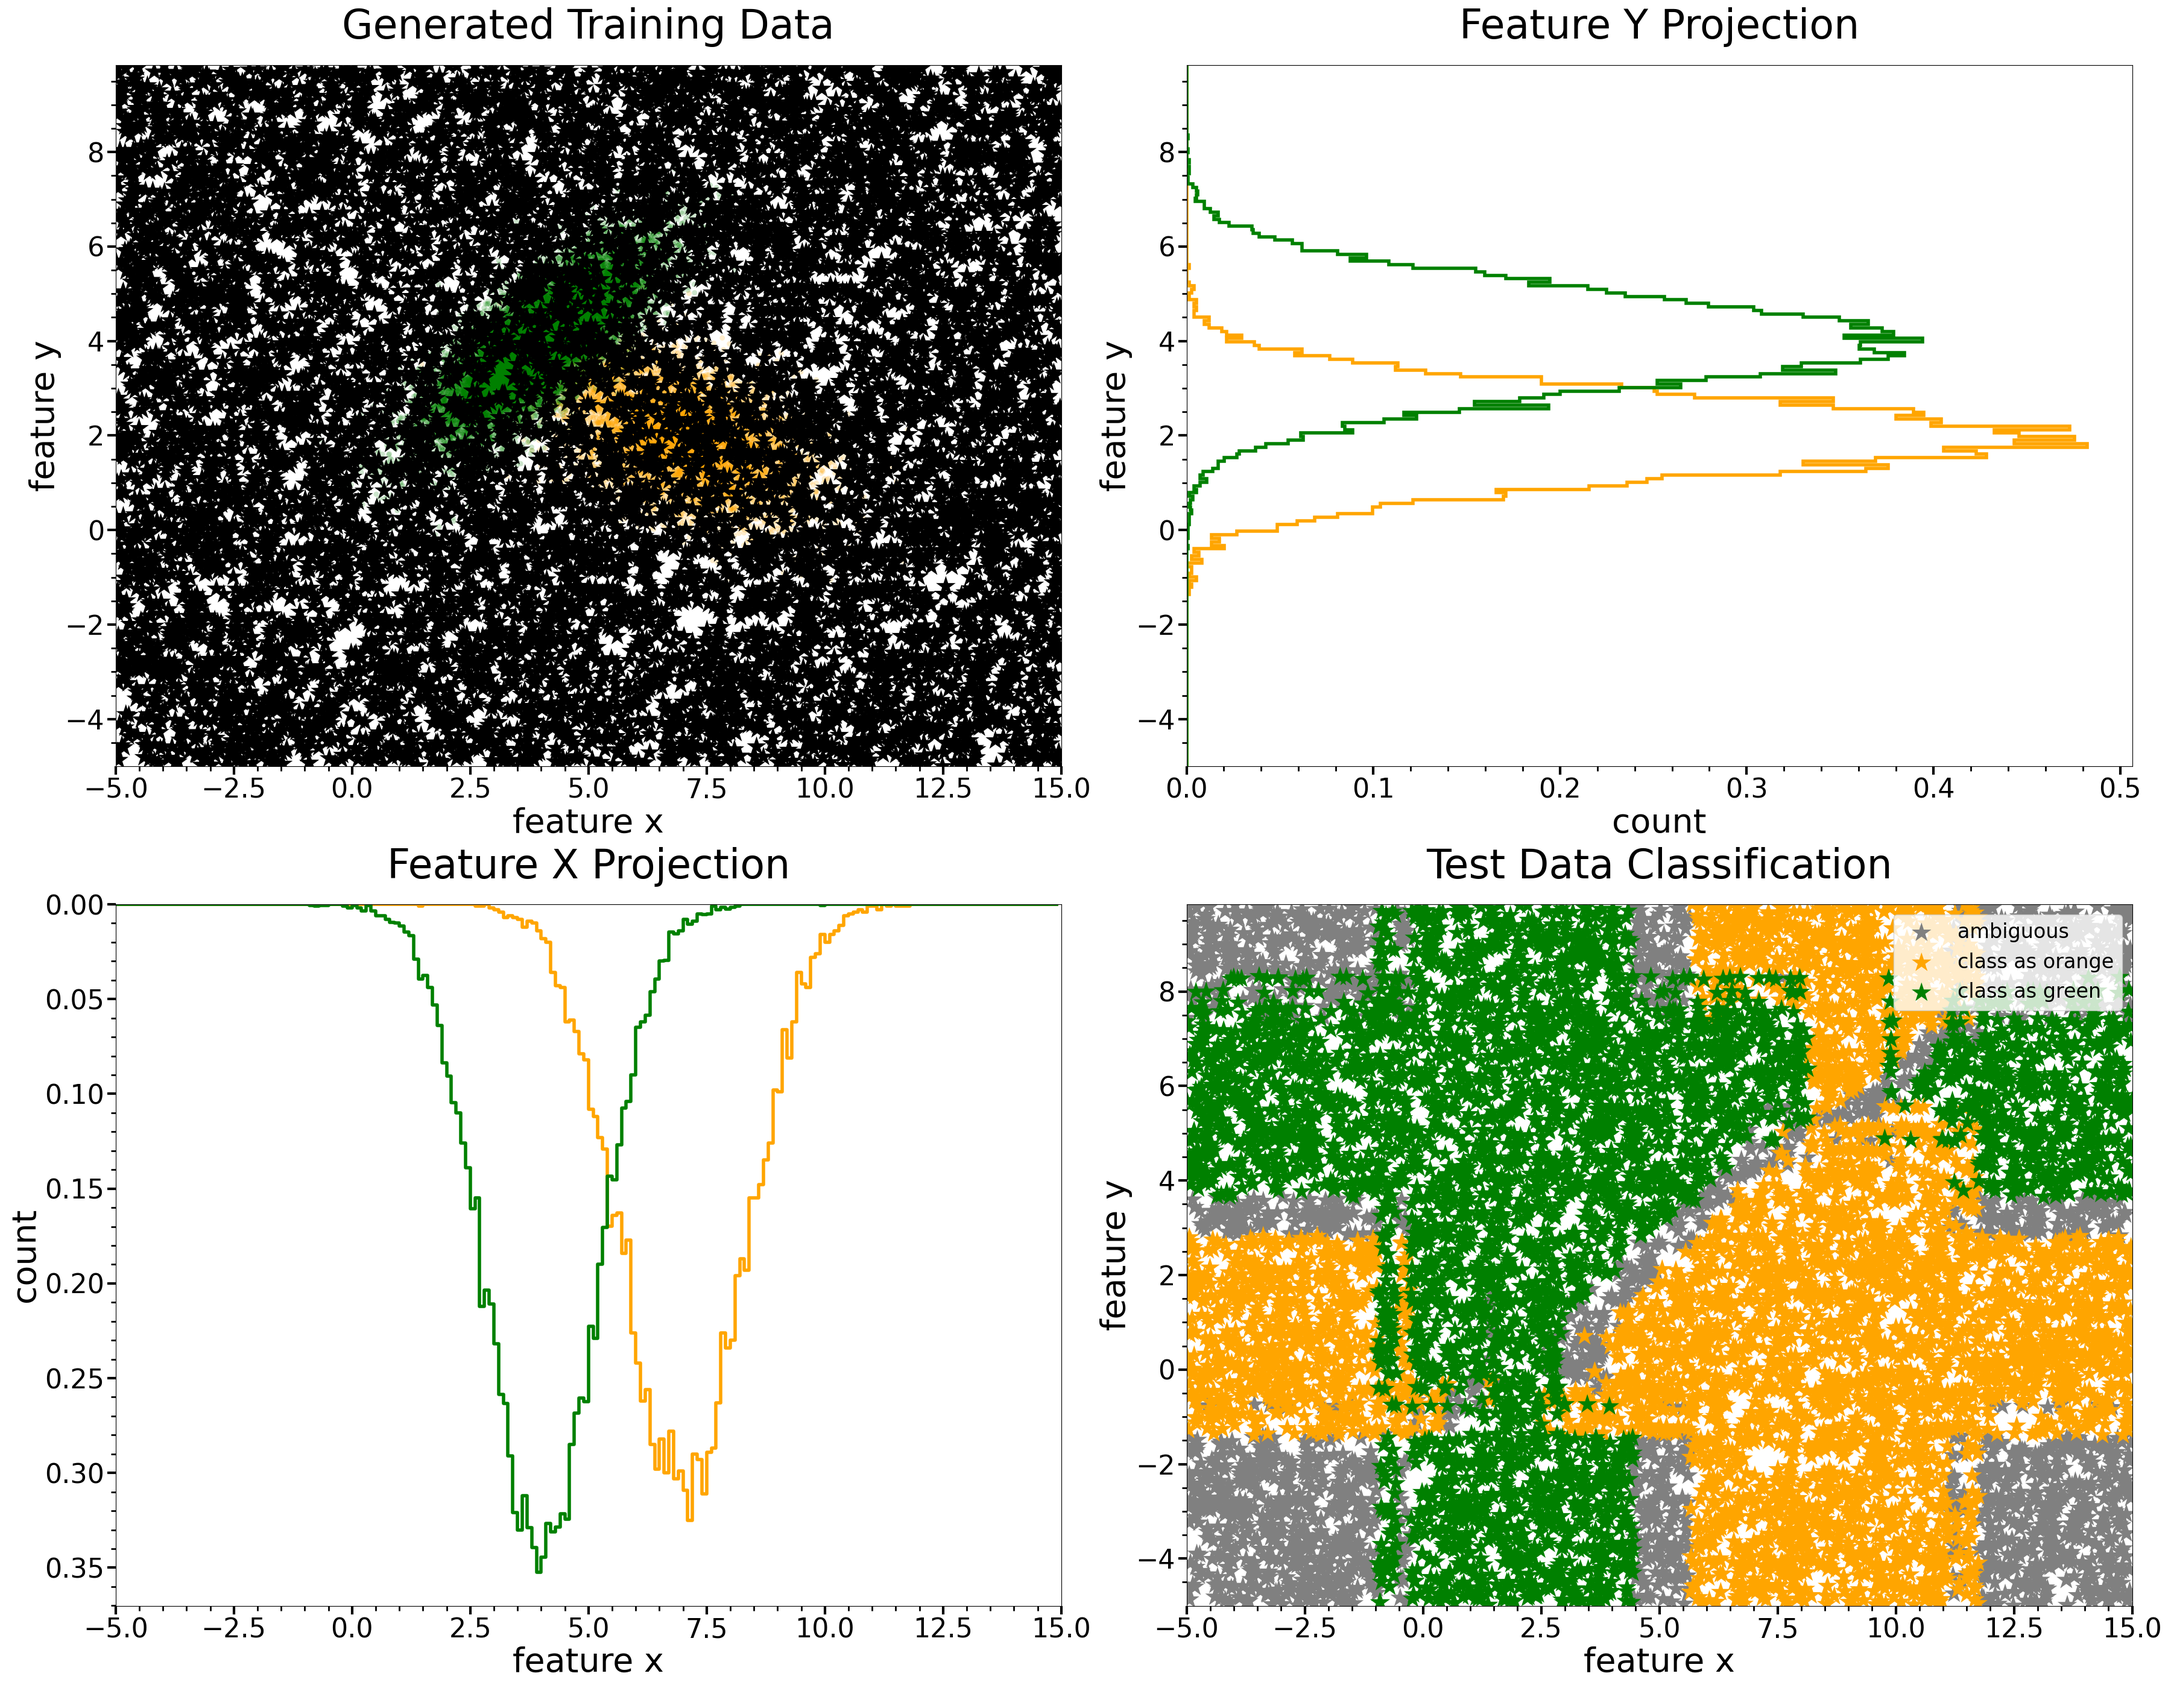
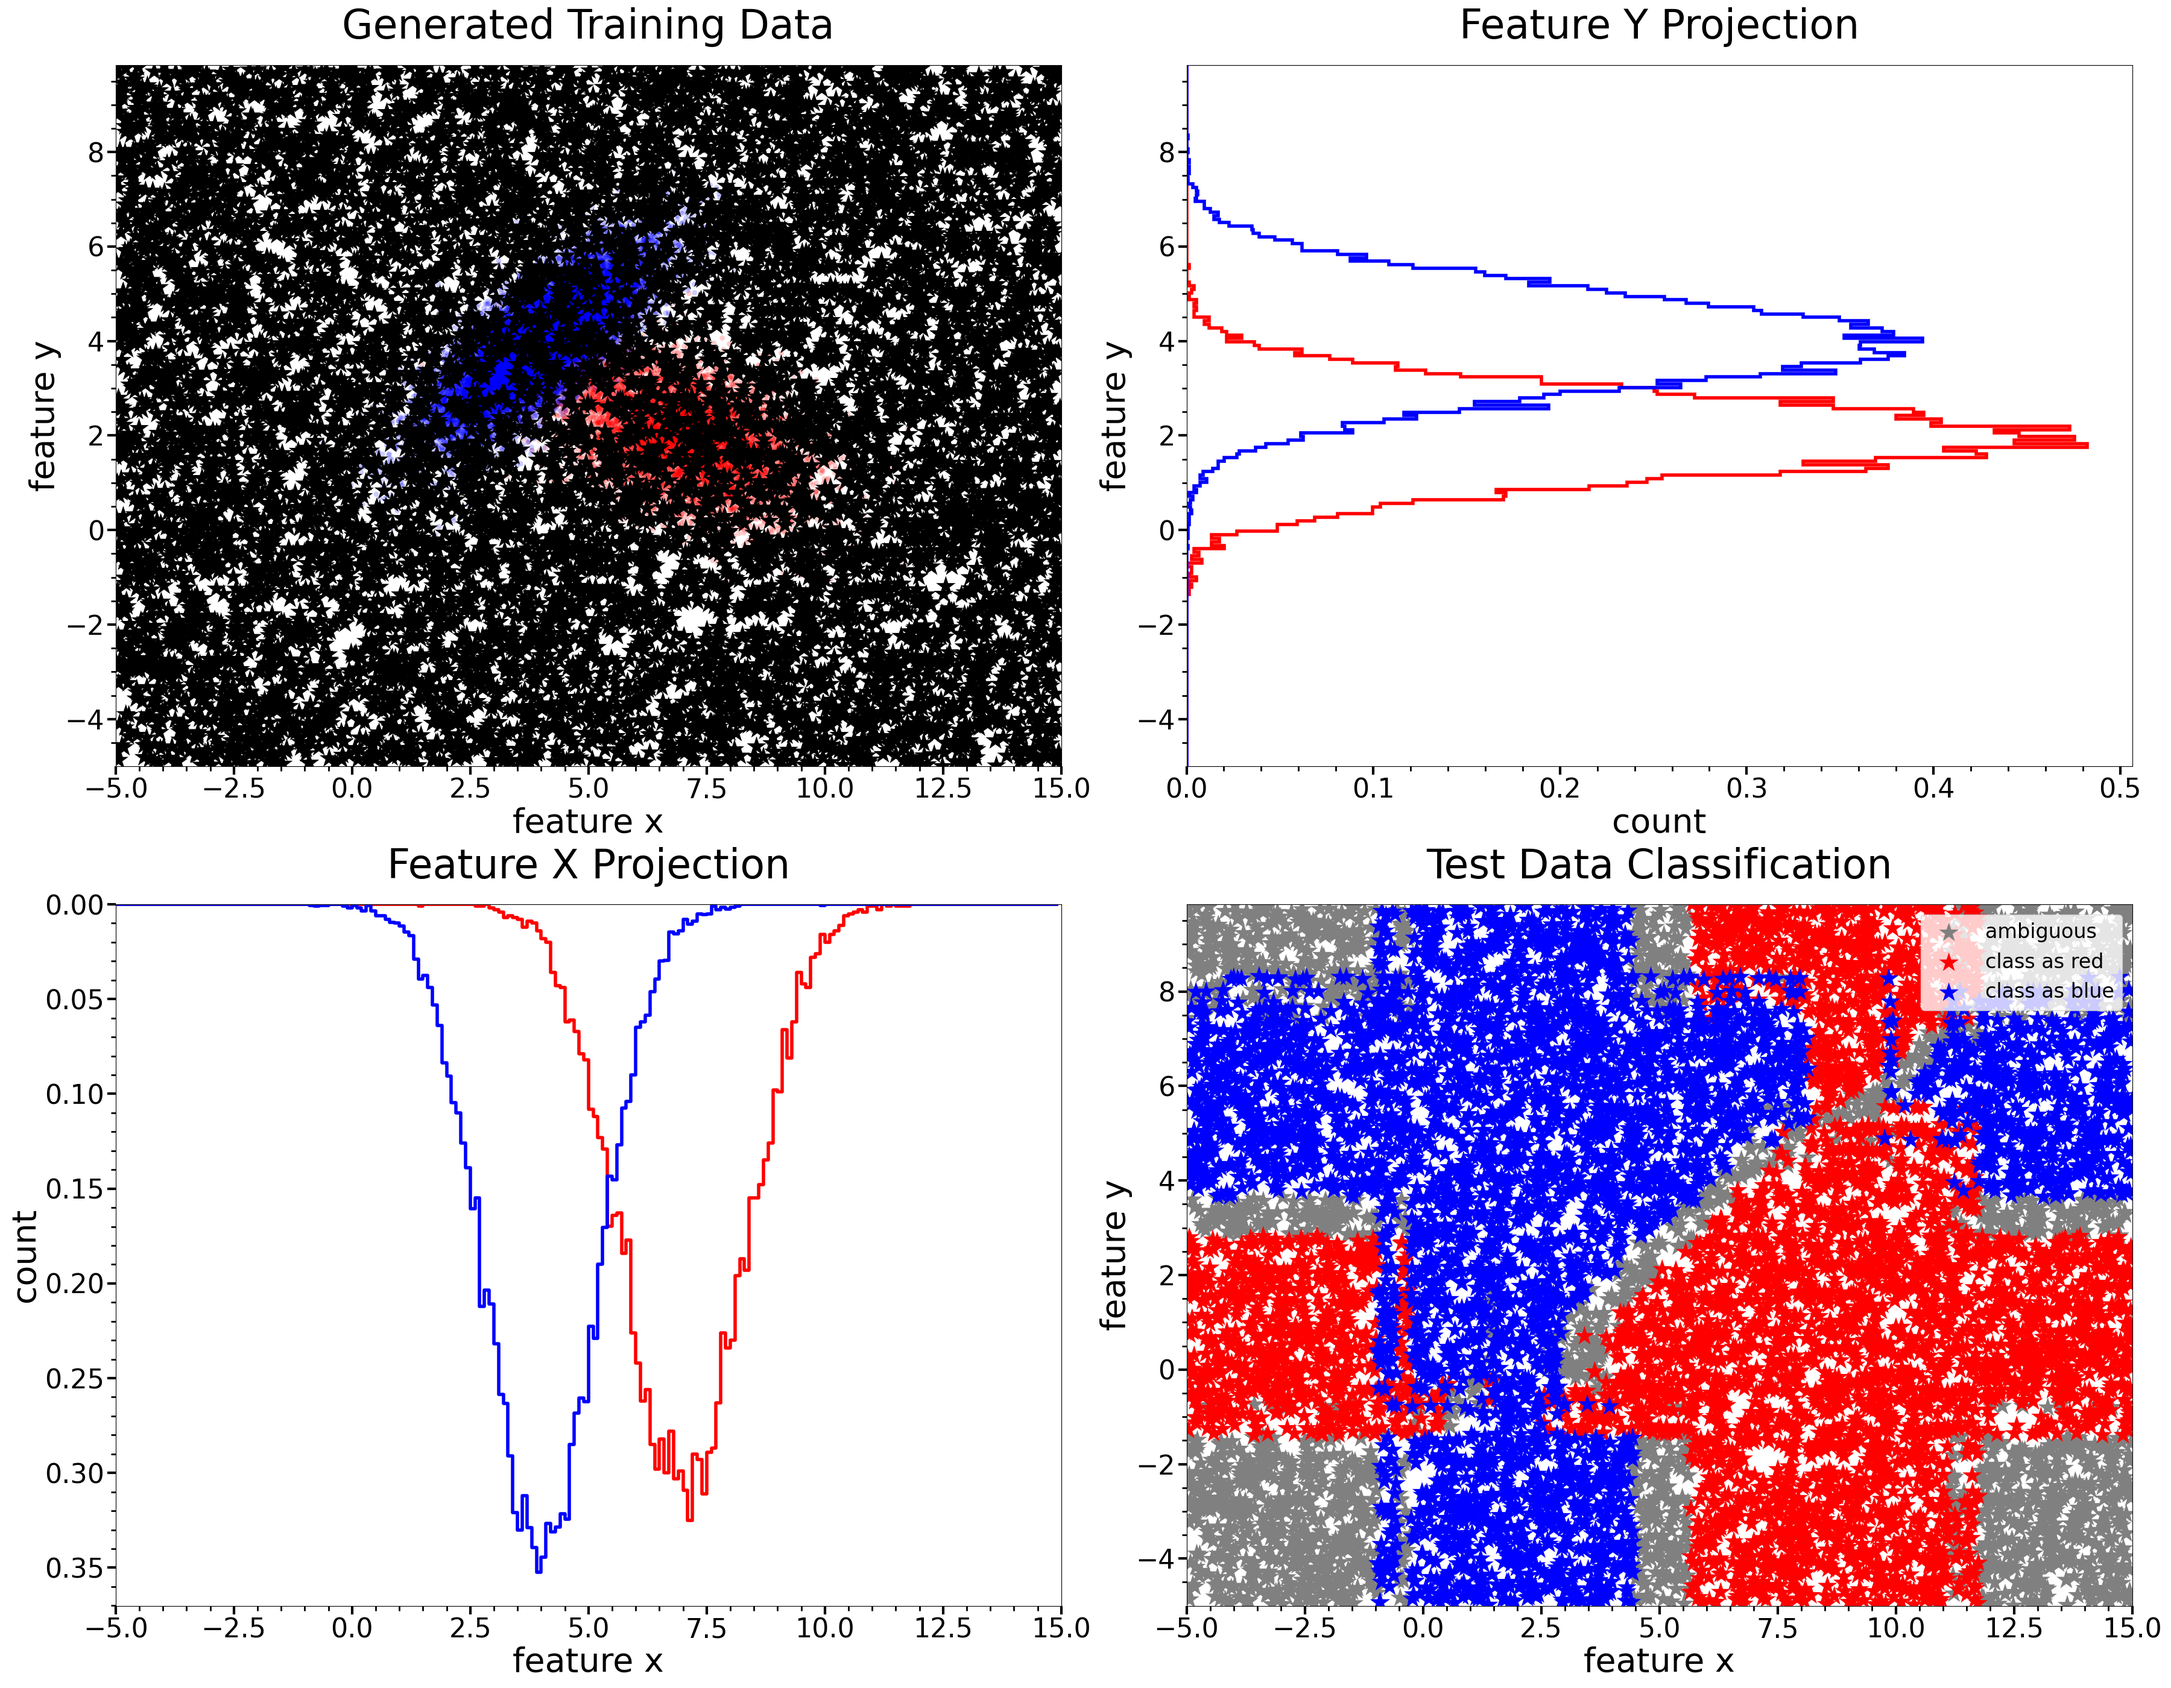
- changing the colors for consistency

diff --git a/naiveBayes_2gausClassification.py b/naiveBayes_2gausClassification.py
@@ -57,7 +57,7 @@ def main():
     class2Cov = [[0.8, 1.0], [1.5, 1.1]]
     class2N   = 20000
 
-    testN = 100
+    testN = 10000
 #training data
     class1Data = np.transpose(np.random.multivariate_normal(class1Mu, class1Cov, class1N))
     class2Data = np.transpose(np.random.multivariate_normal(class2Mu, class2Cov, class2N))
@@ -124,8 +124,8 @@ def main():
         ax[-1].tick_params(which="major", width=3, length=10)
         ax[-1].tick_params(which="minor", width=2, length=6)
  
-    ax[0].scatter(*class1Data, marker="o", s=40.0, color="orange", alpha=0.2, edgecolors="none")
-    ax[0].scatter(*class2Data, marker="o", s=40.0, color="green",  alpha=0.2, edgecolors="none")
+    ax[0].scatter(*class1Data, marker="o", s=40.0,  color="red",  alpha=0.2, edgecolors="none")
+    ax[0].scatter(*class2Data, marker="o", s=40.0,  color="blue", alpha=0.2, edgecolors="none")
     ax[0].scatter(*testData,   marker="*", s=600.0, color="black", edgecolors="none")
     ax[0].set_title("Generated Training Data", fontsize=48, y=1.03)
     ax[0].set_xlabel("feature x", fontsize=40)
@@ -133,9 +133,9 @@ def main():
     ax[0].set_xlim(*rangeX)
     ax[0].set_ylim(*rangeY)
 
-    ax[1].hist(class1Data[1], bins=binN, range=rangeY, histtype='step', color='orange', linewidth=4,\
+    ax[1].hist(class1Data[1], bins=binN, range=rangeY, histtype='step', color='red',  linewidth=4,\
                density=True, orientation='horizontal')
-    ax[1].hist(class2Data[1], bins=binN, range=rangeY, histtype='step', color='green', linewidth=4,\
+    ax[1].hist(class2Data[1], bins=binN, range=rangeY, histtype='step', color='blue', linewidth=4,\
                density=True, orientation='horizontal')
     ax[1].set_title("Feature Y Projection", fontsize=48, y=1.03)
     ax[1].set_xlabel('count', fontsize=40)
@@ -143,8 +143,8 @@ def main():
     ax[1].set_xlim(left=0.0)
     ax[1].set_ylim(*rangeY)
 
-    ax[2].plot(projX, class1XHist, drawstyle="steps-post", color='orange', linewidth=4)
-    ax[2].plot(projX, class2XHist, drawstyle="steps-post", color='green',  linewidth=4)
+    ax[2].plot(projX, class1XHist, drawstyle="steps-post", color='red',  linewidth=4)
+    ax[2].plot(projX, class2XHist, drawstyle="steps-post", color='blue', linewidth=4)
     ax[2].set_title("Feature X Projection", fontsize=48, y=1.03)
     ax[2].set_xlabel('feature x', fontsize=40)
     ax[2].set_ylabel('count', fontsize=40)
@@ -152,15 +152,15 @@ def main():
     ax[2].invert_yaxis()
     ax[2].set_ylim(top=0)
 
-    plot0 = ax[3].scatter(*testAmbiguous, marker="*", s=600.0, color="grey",   edgecolors="none")
-    plot1 = ax[3].scatter(*testClass1,    marker="*", s=600.0, color="orange", edgecolors="none")
-    plot2 = ax[3].scatter(*testClass2,    marker="*", s=600.0, color="green",  edgecolors="none")
+    plot0 = ax[3].scatter(*testAmbiguous, marker="*", s=600.0, color="grey", edgecolors="none")
+    plot1 = ax[3].scatter(*testClass1,    marker="*", s=600.0, color="red",  edgecolors="none")
+    plot2 = ax[3].scatter(*testClass2,    marker="*", s=600.0, color="blue", edgecolors="none")
     ax[3].set_title("Test Data Classification", fontsize=48, y=1.03)
     ax[3].set_xlabel("feature x", fontsize=40) 
     ax[3].set_ylabel("feature y", fontsize=40)
     ax[3].set_xlim(*rangeX)
     ax[3].set_ylim(*rangeY)
-    legObj = ax[3].legend([plot0, plot1, plot2], ["ambiguous", "class as orange", "class as green"],\
+    legObj = ax[3].legend([plot0, plot1, plot2], ["ambiguous", "class as red", "class as blue"],\
                           loc="upper right", fontsize=24)
 #save plots
     exepath = os.path.dirname(os.path.abspath(__file__))
